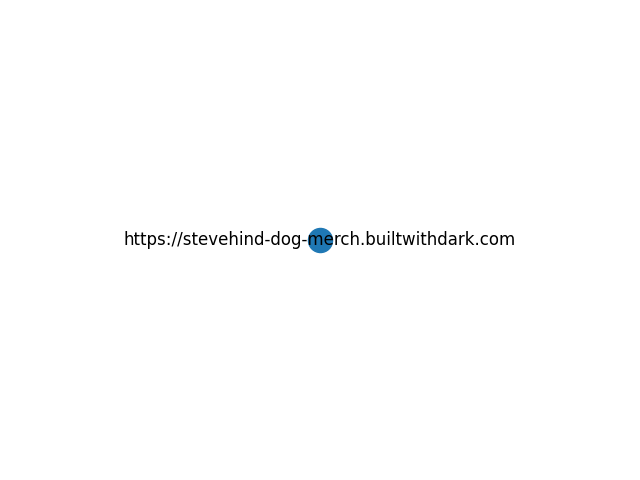
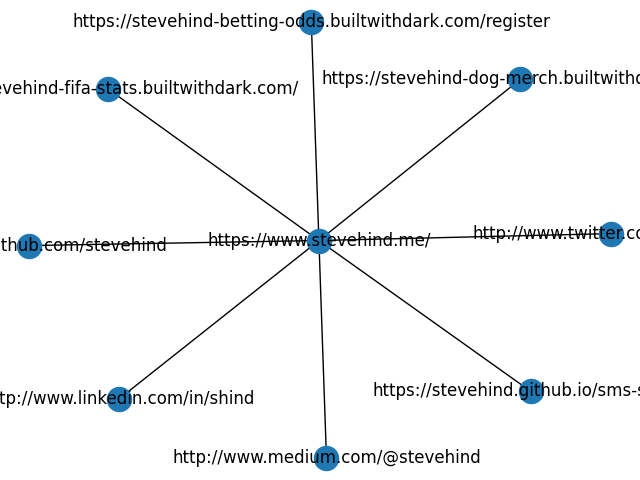
Implemented Selenium, working on network graph testing.

diff --git a/src/scrapedwebsite.py b/src/scrapedwebsite.py
@@ -7,12 +7,21 @@ from selenium.webdriver.common.by import By
 from selenium.webdriver.common.keys import Keys
 from selenium.webdriver.support.ui import WebDriverWait
 from selenium.webdriver.support.expected_conditions import presence_of_element_located
+from validator_collection import validators, checkers
 import time
 import sys
 
 class ScrapedWebsite:
     def __init__(self, url: str):
-        self.url = url
+        self.raw_url = url
+        if (checkers.is_url(self.raw_url)):
+            if (self.raw_url[-1] != '/'):
+                self.url = self.raw_url + '/'
+            else:
+                self.url = self.raw_url
+            
+        else:
+            raise Exception('Invalid URL')
 
         ## for selenium headless browser
         self.chrome_driver_path = '/Users/stevenhind/Google Drive/Programming/website-link-graph/chromedriver'
@@ -27,12 +36,36 @@ class ScrapedWebsite:
         self.webdriver = webdriver.Chrome(
             executable_path = self.chrome_driver_path, options = self.chrome_options
         )
-        self.webdriver.get(self.url)
-        title = self.webdriver.find_element_by_xpath("//title").text
-        self.webdriver.close()
 
-        print('The title is:' + title)
-        return title
+        wait = WebDriverWait(self.webdriver, 10)
+
+        self.webdriver.get(self.url)
+
+        xpaths = [
+            "//title", "//h1", "//h2", "//h3"
+        ]
+
+        pot_titles = []
+
+        # try to find titles in the title tag, and in the first header tags
+        for xpath in xpaths:
+            try:
+                title = self.webdriver.find_element_by_xpath(xpath).text
+            except:
+                title = ''
+            pot_titles.append(title)
+
+        # if '' is a title, and all the titles are the same, plug in placeholder test
+        if ((pot_titles[0] == '') & (len(set(pot_titles)) == 1)):
+            title = 'Could not find a title in <title>, <h1>, <h2> or <h3>'
+        # else, iterate through the titles and return the first instance that isn't ''
+        else:
+            for pot_title in pot_titles:
+                if (pot_title != ''):
+                    self.webdriver.close()
+                    return pot_title
+                else:
+                    pass
         
     def scrape_raw_links(self) ->  List[str]:
         self.webdriver = webdriver.Chrome(
@@ -56,23 +89,15 @@ class ScrapedWebsite:
         formatted_strings = []
 
         for link in link_strings:
-            # Sample string to parse
-            # '<a href="https://www.iana.org/domains/example">More information...</a>'
-            try:
-                url = re.search(r'a href="(.*?)">', link).group(1)
-            ## TODO: change this
-            except:
-                url = ''
             
-            # Fill in the title later when scraping the link itself?
-            title = ScrapedWebsite(url).return_title()
-            
-            if (url[0:4] == 'http'):
+            if (checkers.is_url(link)):
                 is_external = True
-                url = url
+                url = link
+                title = ScrapedWebsite(link).return_title()
             else:
                 is_external = False
-                url = ''
+                url = link
+                title = 'Not an external link'
             
             link_dict = {
                 'url': url,
@@ -80,7 +105,7 @@ class ScrapedWebsite:
                 'external': is_external
             }
 
-            if (link_dict['external']):
+            if ((link_dict['external']) & (link_dict['url'] != self.url)):
                 formatted_strings.append(link_dict)
 
         return formatted_strings

diff --git a/test/src/test_networkgraph.py b/test/src/test_networkgraph.py
@@ -3,20 +3,35 @@ import sys
 sys.path.append(os.path.join(os.path.dirname(__file__),'../../src'))
 import networkgraph
 
-url = 'https://www.stevehind.me'
-nwgraph = networkgraph.NetworkGraph(url, 1)
+univ_url = 'https://www.stevehind.me'
+univ_nwgraph = networkgraph.NetworkGraph(univ_url, 1)
 
-target_nodes = [
-    'https://www.stevehind.me', 'https://stevehind-dog-merch.builtwithdark.com', 'https://stevehind.github.io/sms-steve/', 'https://stevehind-fifa-stats.builtwithdark.com', 'https://stevehind-betting-odds.builtwithdark.com/register', 'http://www.twitter.com/stevehind', 'http://www.linkedin.com/in/shind', 'http://www.github.com/stevehind', 'http://www.medium.com/@stevehind', 'https://avatars3.githubusercontent.com/u/17911380?s=400&amp;u=c56c6ac76fe8d4ca5118f8a49a251589436d01d1&amp;v=4" itemprop="image', 'https://docs.github.com/en/articles/blocking-a-user-from-your-personal-account', 'https://docs.github.com/en/articles/reporting-abuse-or-spam', 'https://docs.github.com/categories/setting-up-and-managing-your-github-profile'
-]
+# def test_creates_self_graph():
+#     url = 'https://stevehind.github.io/sms-steve/'
+#     nwgraph = networkgraph.NetworkGraph(url, 1)
+#     self_graph = nwgraph.return_self_graph()
+#     assert(list(self_graph.nodes)) == ['https://stevehind.github.io/sms-steve/', 'http://www.stevehind.me/']
 
 def test_creates_network_graph():
+    url = 'https://stevehind.github.io/sms-steve/'
+    nwgraph = networkgraph.NetworkGraph(url, 1)
     graph = nwgraph.create_network_graph()
+    target_nodes = ['https://stevehind.github.io/sms-steve/', 'http://www.stevehind.me/', 'https://stevehind-dog-merch.builtwithdark.com/', 'https://stevehind-fifa-stats.builtwithdark.com/', 'https://stevehind-betting-odds.builtwithdark.com/register', 'http://www.twitter.com/stevehind', 'http://www.linkedin.com/in/shind', 'http://www.github.com/stevehind', 'http://www.medium.com/@stevehind']
+    target_edges = [('https://stevehind.github.io/sms-steve/', 'http://www.stevehind.me/'), ('http://www.stevehind.me/', 'https://stevehind-dog-merch.builtwithdark.com/'), ('http://www.stevehind.me/', 'https://stevehind-fifa-stats.builtwithdark.com/'), ('http://www.stevehind.me/', 'https://stevehind-betting-odds.builtwithdark.com/register'), ('http://www.stevehind.me/', 'http://www.twitter.com/stevehind'), ('http://www.stevehind.me/', 'http://www.linkedin.com/in/shind'), ('http://www.stevehind.me/', 'http://www.github.com/stevehind'), ('http://www.stevehind.me/', 'http://www.medium.com/@stevehind')]
 
-    assert(list(graph.nodes)) == target_nodes
-    assert(list(graph.edges)) == 'foo'
+    # Don't need nodes to be in same order as provided in test, just for it to contain all the nodes
+    assert len(list(graph.nodes)) == len(target_nodes)
+    assert list(graph.nodes) == target_nodes
 
-# def test_draws_network_graph():
-#     graph_msg = nwgraph.draw_network_graph()
+    assert(list(graph.edges)) == target_edges
 
-#     assert(graph_msg) == 'Image generated.'
+def test_draws_network_graph():
+    url = 'https://stevehind.github.io/sms-steve/'
+    nwgraph = networkgraph.NetworkGraph(url, 1)
+
+    print('list(nwgraph.nodes)[0] is:' + str(list(nwgraph.nodes))[0])
+
+    graph_msg = nwgraph.draw_network_graph()
+    print('graph_msg is: ' + graph_msg)
+
+    assert(graph_msg) == 'Image generated.'

diff --git a/test/src/test_websitegraph.py b/test/src/test_websitegraph.py
@@ -4,32 +4,43 @@ sys.path.append(os.path.join(os.path.dirname(__file__),'../../src'))
 from scrapedwebsite import ScrapedWebsite
 from websitegraph import WebsiteGraph
 
-target_url = 'https://www.stevehind.me'
-website = ScrapedWebsite(target_url)
-graph = WebsiteGraph(target_url)
+target_url = 'https://www.stevehind.me/'
+
+# utility function to set up a new website and graph for each test
+def create_new_website_and_graph(url):
+    return {
+        'website': ScrapedWebsite(target_url),
+        'graph': WebsiteGraph(target_url)
+    }
+
+context = create_new_website_and_graph(target_url)    
 
 def test_returns_graph():
-    graph_with_node = graph.add_url_as_node()
+    graph_with_node = context['graph'].add_url_as_node()
     assert list(graph_with_node.nodes)[0] == target_url
 
 # Should really decouple this from above test, e.g. right now the test implicitly requires the test above to have run.
 def test_adds_links_as_nodes():
-    graph_with_links_as_nodes = graph.add_links_as_nodes()
-    assert list(graph_with_links_as_nodes.nodes)[0:3] == [
-        'https://www.stevehind.me',
-        'https://stevehind-dog-merch.builtwithdark.com',
-        'https://stevehind.github.io/sms-steve/'
+    graph_with_links_as_nodes = context['graph'].add_links_as_nodes()
+
+    assert list(graph_with_links_as_nodes.nodes)[0:4] == [
+        # first node is self
+        'https://www.stevehind.me/',
+        # other nodes are the external link urls
+        'https://stevehind-dog-merch.builtwithdark.com/',
+        'https://stevehind.github.io/sms-steve/',
+        'https://stevehind-fifa-stats.builtwithdark.com/'
     ]
     assert len(list(graph_with_links_as_nodes.nodes)) == 9
 
 def test_create_graph_adds_edges():
-    graph_with_edges_between_nodes = graph.create_graph()
+    graph_with_edges_between_nodes = context['graph'].create_graph()
     assert list(graph_with_edges_between_nodes.edges)[0:3] == [
-        ('https://www.stevehind.me','https://stevehind-dog-merch.builtwithdark.com'),
-        ('https://www.stevehind.me','https://stevehind.github.io/sms-steve/'),
-        ('https://www.stevehind.me','https://stevehind-fifa-stats.builtwithdark.com')
+        ('https://www.stevehind.me/','https://stevehind-dog-merch.builtwithdark.com/'),
+        ('https://www.stevehind.me/','https://stevehind.github.io/sms-steve/'),
+        ('https://www.stevehind.me/','https://stevehind-fifa-stats.builtwithdark.com/')
     ]
 
 def test_output_graph():
-    graph_image = graph.display_graph()
+    graph_image = context['graph'].display_graph()
     assert graph_image == 'Image generated.'

diff --git a/test/src/test_scrapedwebsite.py b/test/src/test_scrapedwebsite.py
@@ -2,29 +2,47 @@ import os
 import sys
 sys.path.append(os.path.join(os.path.dirname(__file__),'../../src'))
 import scrapedwebsite
+import pytest
 
-target_url = 'https://stevehind.github.io/sms-steve/'
+target_url =  'https://stevehind.github.io/sms-steve/'
 website = scrapedwebsite.ScrapedWebsite(target_url)
+
+def test_raises_exception_for_invalid_url():
+    with pytest.raises(Exception):
+        scrapedwebsite.ScrapedWebsite('foo bar')
 
 def test_correctly_retrieves_url():
     assert website.return_url() == target_url 
 
-def test_returns_webpage():
-    assert website.return_title() == 'page'
+def test_returns_title():
+    assert website.return_title() == 'Just like using your phone...'
 
 def test_scrape_raw_links():
     links = website.scrape_raw_links()
 
-    assert links[0:2] == [
-        '<a class="navbar-brand" href="/">stevehind.me</a>',
-        '<a href="https://stevehind-dog-merch.builtwithdark.com">dog-merch</a>'
+    assert links == [
+        'http://www.stevehind.me/'
     ]
 
-# def test_extracts_formatted_links():
-#     links = website.formatted_strings()
+def test_extracts_formatted_links():
+    links = website.formatted_strings()
 
-#     assert links[0] == {
-#         'url':  'https://stevehind-dog-merch.builtwithdark.com',
-#         'title': '<title>Buy Sydney and Sesil Merch!</title>',
-#         'external': True
-#     }
+    assert links[0] == {
+        'url':  'http://www.stevehind.me/',
+        'title': "Steve's jankey website",
+        'external': True
+    }
+
+def test_does_not_include_links_to_self():
+    test_url = 'http://www.stevehind.me/'
+    website = scrapedwebsite.ScrapedWebsite(test_url)
+
+    links = website.formatted_strings()
+
+    assert test_url not in links
+
+def test_appends_slash_to_valid_url():
+    test_url = 'https://www.stevehind.me'
+    website = scrapedwebsite.ScrapedWebsite(test_url)
+
+    assert website.return_url() == 'https://www.stevehind.me/'

diff --git a/src/networkgraph.py b/src/networkgraph.py
@@ -10,19 +10,18 @@ class NetworkGraph:
         self.depth = depth
         self.links = scrapedwebsite.ScrapedWebsite(url).formatted_strings()
         self.graph = websitegraph.WebsiteGraph(url).create_graph()
-    
+
+    def return_self_graph(self):
+        return self.graph
+
     def create_network_graph(self):
         for link in self.links:
             link_url = link['url']
             link_graph = websitegraph.WebsiteGraph(link_url).create_graph()
-
-            print('#####URL#####: ' + link_url)
-            print('***NODES***: ' + str(list(link_graph.nodes)))
-            print('***EDGES***: ' + str(list(link_graph.edges)))
-
+            
             # Add nodes and edges to original graph
             self.graph.add_nodes_from(link_graph)
-            #self.graph.add_edges_from(link_graph)
+            self.graph.add_edges_from(link_graph.edges)
 
         return self.graph
 
